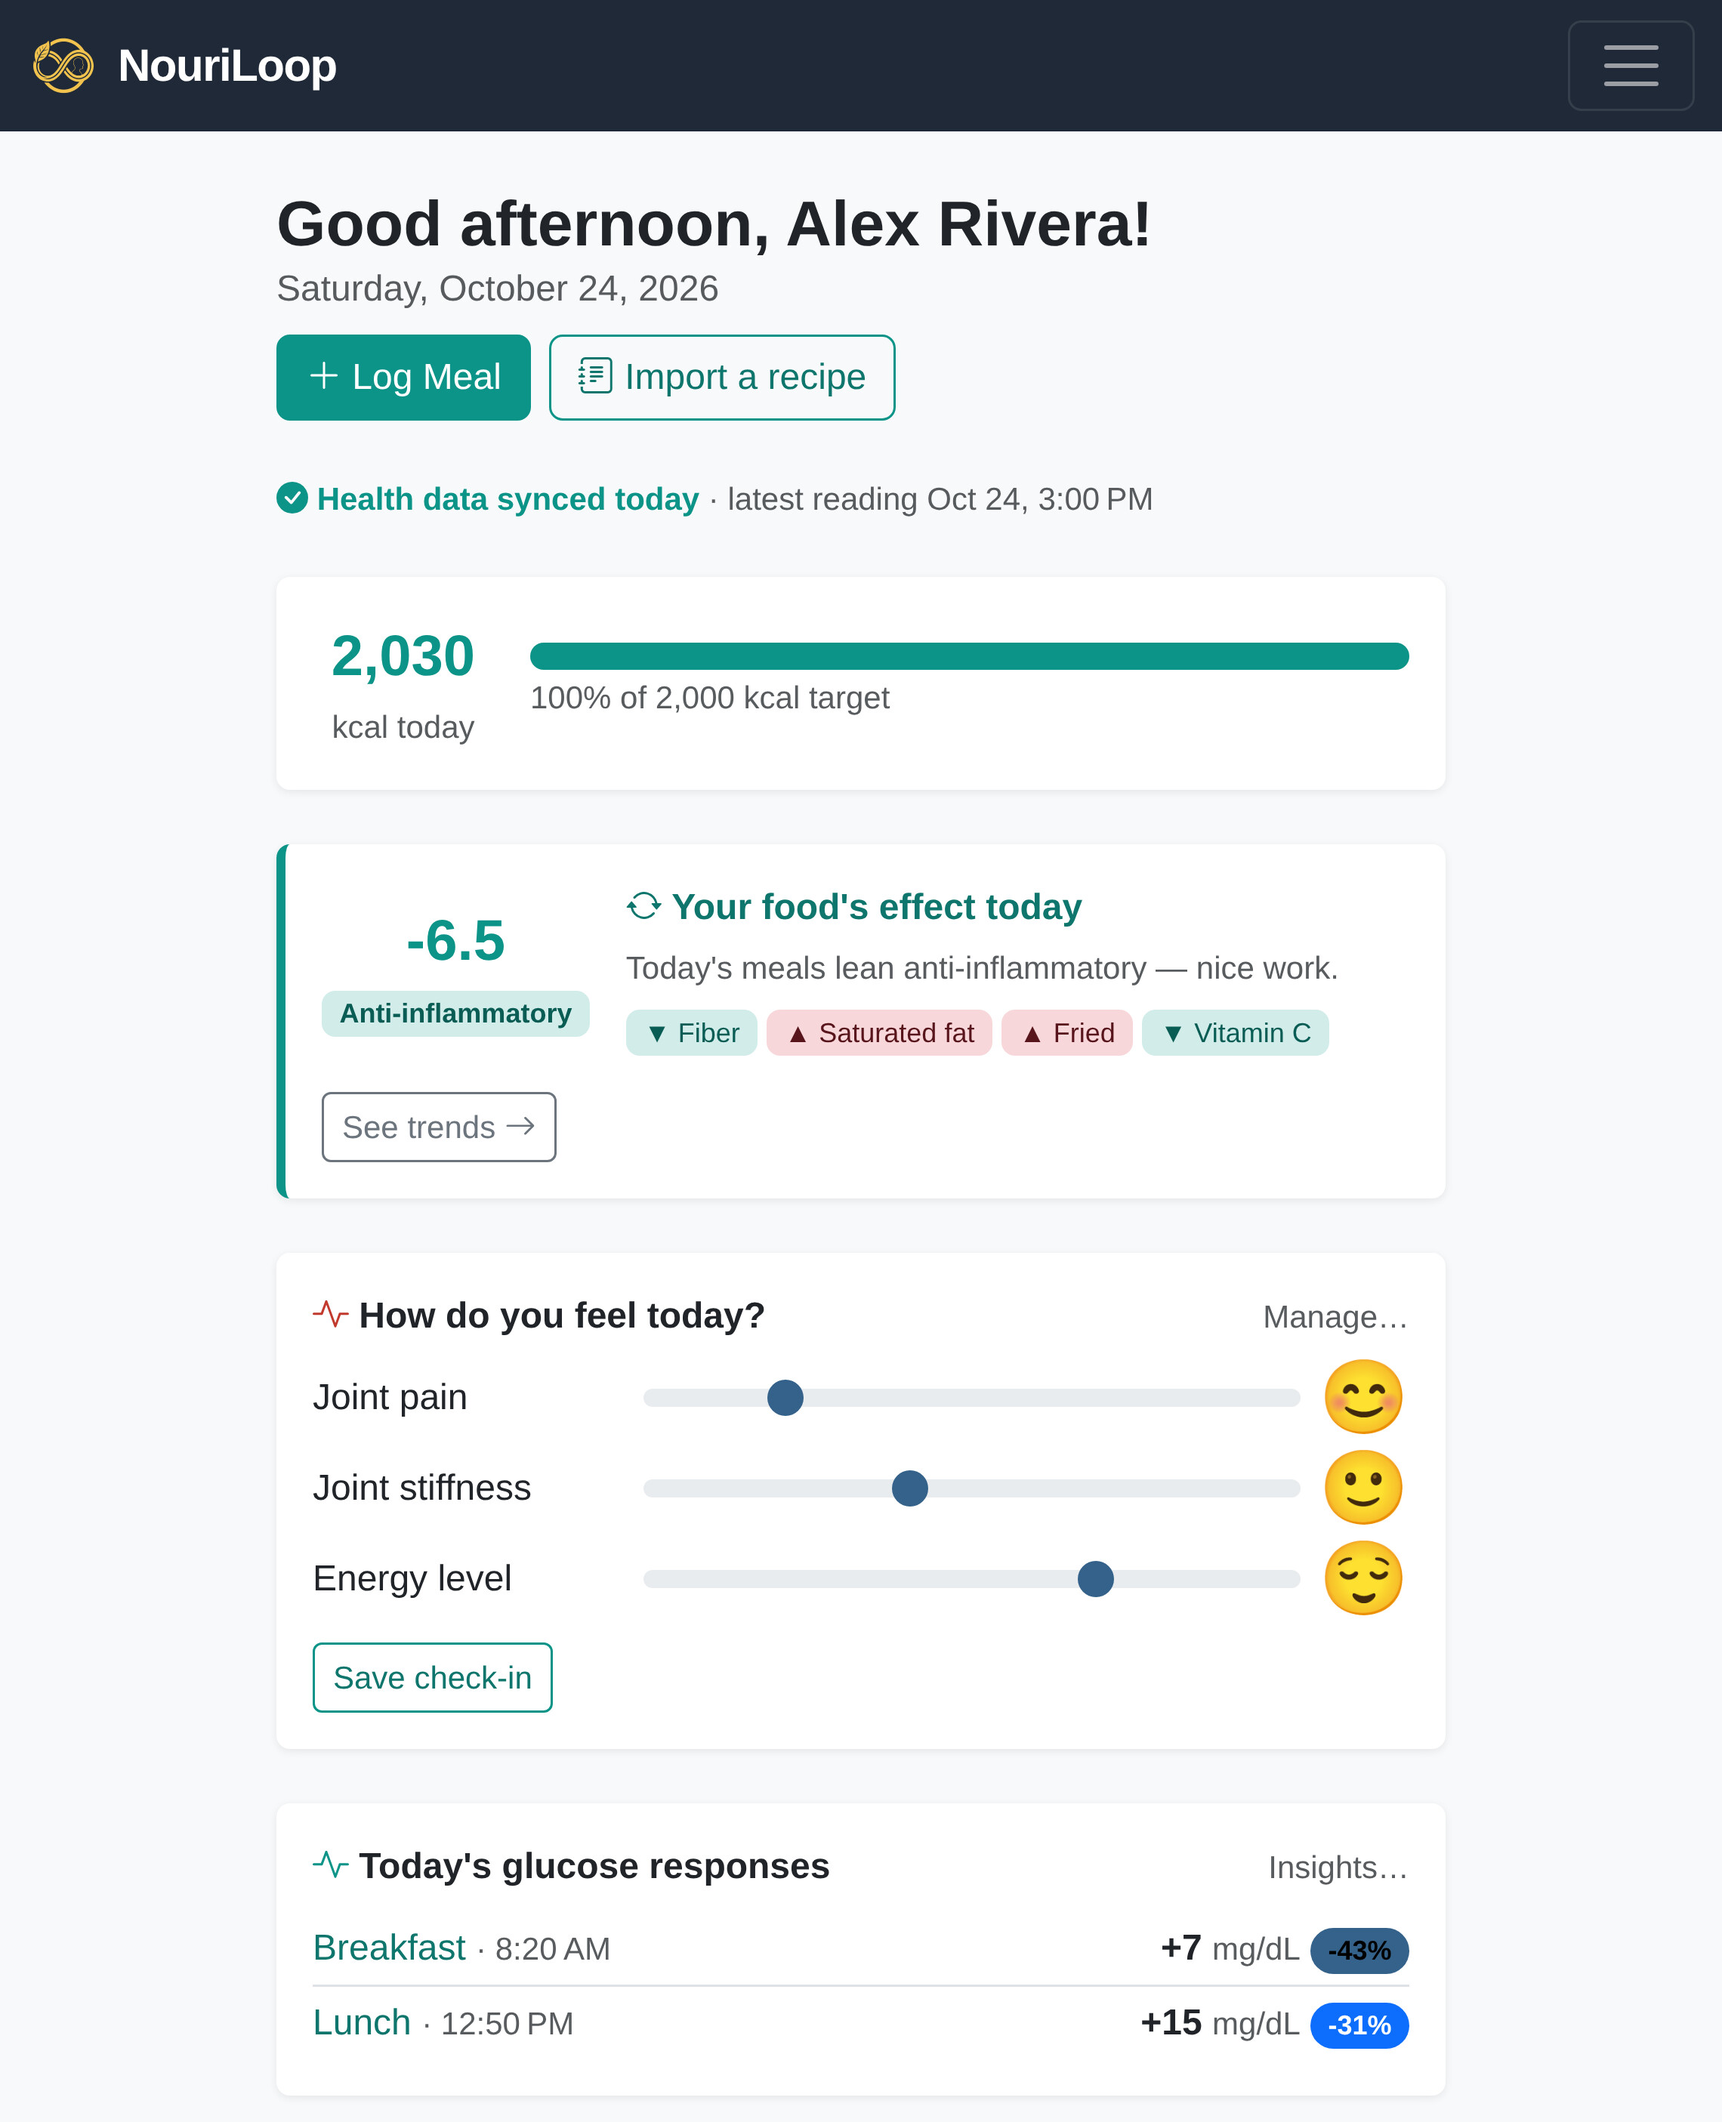
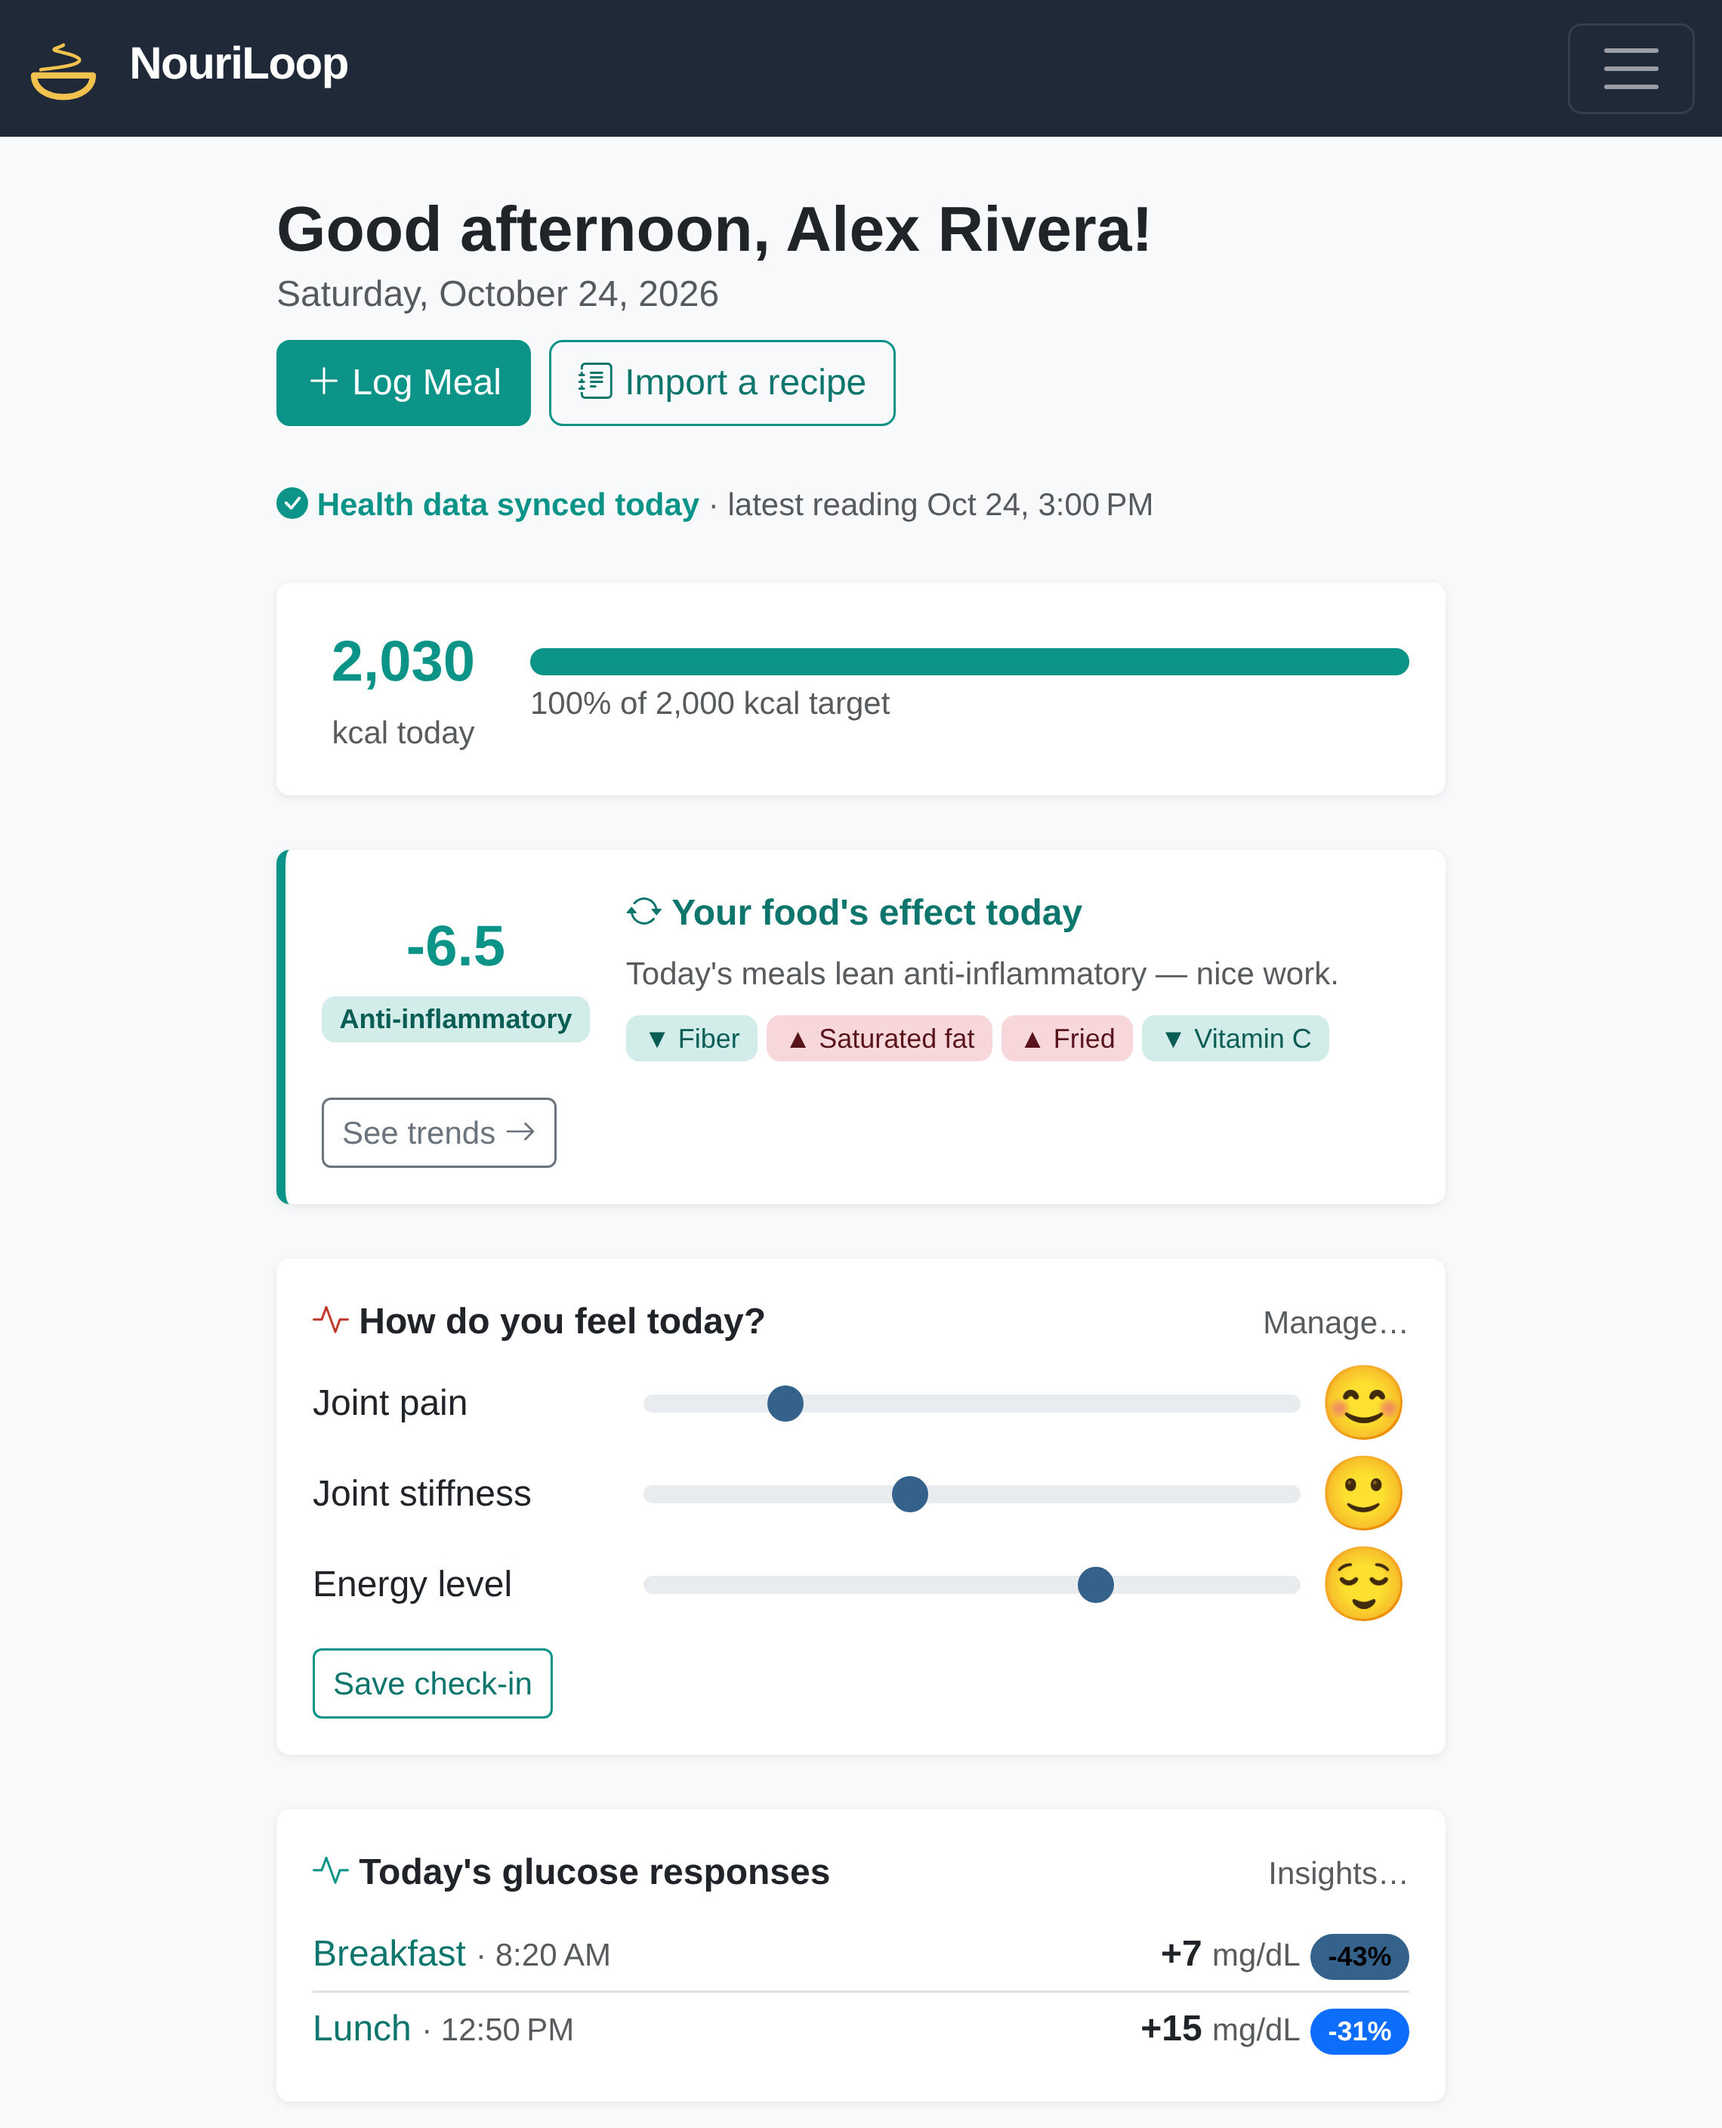
NouriLoop screenshots with the app's new mark
The five app screenshots (Home: analysis, AI provider; Work: today,
glucose, goal) showed the old infinity mark in the navbar. Each now
carries the bowl-with-steam bar from v3.3, captured from the local app
at the same 760px width and 3x scale. The new bar is 7px taller at 3x, so
the content below it is the same capture shifted down; the img height
attributes follow.

diff --git a/work/index.html b/work/index.html
@@ -71,7 +71,7 @@
       <picture>
         <source type="image/webp" srcset="/screens/today-800.webp 800w, /screens/today-1600.webp 1600w, /screens/today-2280.webp 2280w" sizes="(min-width: 40rem) 38rem, calc(100vw - 2rem)">
         <img src="/screens/today-800.jpg" srcset="/screens/today-800.jpg 800w, /screens/today-1600.jpg 1600w, /screens/today-2280.jpg 2280w" sizes="(min-width: 40rem) 38rem, calc(100vw - 2rem)"
-          width="1600" height="1972" alt="NouriLoop's Today screen for a demo user: calories so far, the day's anti-inflammatory score, a how-do-you-feel check-in with three sliders, and glucose responses to breakfast and lunch." loading="lazy">
+          width="1600" height="1977" alt="NouriLoop's Today screen for a demo user: calories so far, the day's anti-inflammatory score, a how-do-you-feel check-in with three sliders, and glucose responses to breakfast and lunch." loading="lazy">
       </picture>
       </a>
       <figcaption>Today: calories so far, the food's inflammation effect, a quick check-in, and each meal's glucose response.</figcaption>
@@ -81,7 +81,7 @@
       <picture>
         <source type="image/webp" srcset="/screens/glucose-800.webp 800w, /screens/glucose-1600.webp 1600w, /screens/glucose-2280.webp 2280w" sizes="(min-width: 40rem) 38rem, calc(100vw - 2rem)">
         <img src="/screens/glucose-800.jpg" srcset="/screens/glucose-800.jpg 800w, /screens/glucose-1600.jpg 1600w, /screens/glucose-2280.jpg 2280w" sizes="(min-width: 40rem) 38rem, calc(100vw - 2rem)"
-          width="1600" height="1554" alt="NouriLoop's Glucose Insights over 30 days: meals with the biggest glucose rises, the gentlest meals, and meals that rose more than their nutrition predicted." loading="lazy">
+          width="1600" height="1559" alt="NouriLoop's Glucose Insights over 30 days: meals with the biggest glucose rises, the gentlest meals, and meals that rose more than their nutrition predicted." loading="lazy">
       </picture>
       </a>
       <figcaption>Glucose insights: meals ranked by how much they raised glucose, and the ones that rose more than their nutrition predicted.</figcaption>
@@ -91,7 +91,7 @@
       <picture>
         <source type="image/webp" srcset="/screens/goal-800.webp 800w, /screens/goal-1600.webp 1600w, /screens/goal-2280.webp 2280w" sizes="(min-width: 40rem) 38rem, calc(100vw - 2rem)">
         <img src="/screens/goal-800.jpg" srcset="/screens/goal-800.jpg 800w, /screens/goal-1600.jpg 1600w, /screens/goal-2280.jpg 2280w" sizes="(min-width: 40rem) 38rem, calc(100vw - 2rem)"
-          width="1600" height="2014" alt="A NouriLoop goal, Boost Daily Fiber, with its definition, weekly schedule, and a history of check-ins such as 26.8 g per day, goal achieved." loading="lazy">
+          width="1600" height="2019" alt="A NouriLoop goal, Boost Daily Fiber, with its definition, weekly schedule, and a history of check-ins such as 26.8 g per day, goal achieved." loading="lazy">
       </picture>
       </a>
       <figcaption>A goal in plain words, turned into a measurable one, with weekly check-ins.</figcaption>

diff --git a/index.html b/index.html
@@ -90,7 +90,7 @@
       <picture>
         <source type="image/webp" srcset="/screens/analysis-800.webp 800w, /screens/analysis-1600.webp 1600w, /screens/analysis-2280.webp 2280w" sizes="(min-width: 40rem) 38rem, calc(100vw - 2rem)">
         <img src="/screens/analysis-800.jpg" srcset="/screens/analysis-800.jpg 800w, /screens/analysis-1600.jpg 1600w, /screens/analysis-2280.jpg 2280w" sizes="(min-width: 40rem) 38rem, calc(100vw - 2rem)"
-          width="1600" height="2331" alt="NouriLoop's Confirm and Refine screen: a photo of a brunch plate, the AI's description of it, an estimate of 1,020 calories, 28 g protein, 130 g carbohydrates and 42 g fat at medium confidence, and two follow-up questions." loading="lazy">
+          width="1600" height="2335" alt="NouriLoop's Confirm and Refine screen: a photo of a brunch plate, the AI's description of it, an estimate of 1,020 calories, 28 g protein, 130 g carbohydrates and 42 g fat at medium confidence, and two follow-up questions." loading="lazy">
       </picture>
       </a>
       <figcaption>Meal analysis: the AI describes the photo, estimates the nutrition, says how sure it is, and asks about what it can't see. Demo account with sample data.</figcaption>
@@ -115,7 +115,7 @@
       <picture>
         <source type="image/webp" srcset="/screens/ai-provider-800.webp 800w, /screens/ai-provider-1600.webp 1600w, /screens/ai-provider-2280.webp 2280w" sizes="(min-width: 40rem) 38rem, calc(100vw - 2rem)">
         <img src="/screens/ai-provider-800.jpg" srcset="/screens/ai-provider-800.jpg 800w, /screens/ai-provider-1600.jpg 1600w, /screens/ai-provider-2280.jpg 2280w" sizes="(min-width: 40rem) 38rem, calc(100vw - 2rem)"
-          width="1600" height="1284" alt="NouriLoop's AI provider settings, offering NouriLoop's AI, the user's own Anthropic key, an OpenRouter key, or another service with an OpenAI-style API." loading="lazy">
+          width="1600" height="1289" alt="NouriLoop's AI provider settings, offering NouriLoop's AI, the user's own Anthropic key, an OpenRouter key, or another service with an OpenAI-style API." loading="lazy">
       </picture>
       </a>
       <figcaption>Choosing the AI: NouriLoop's own, your Anthropic or OpenRouter key, or any service with an OpenAI-style API.</figcaption>
